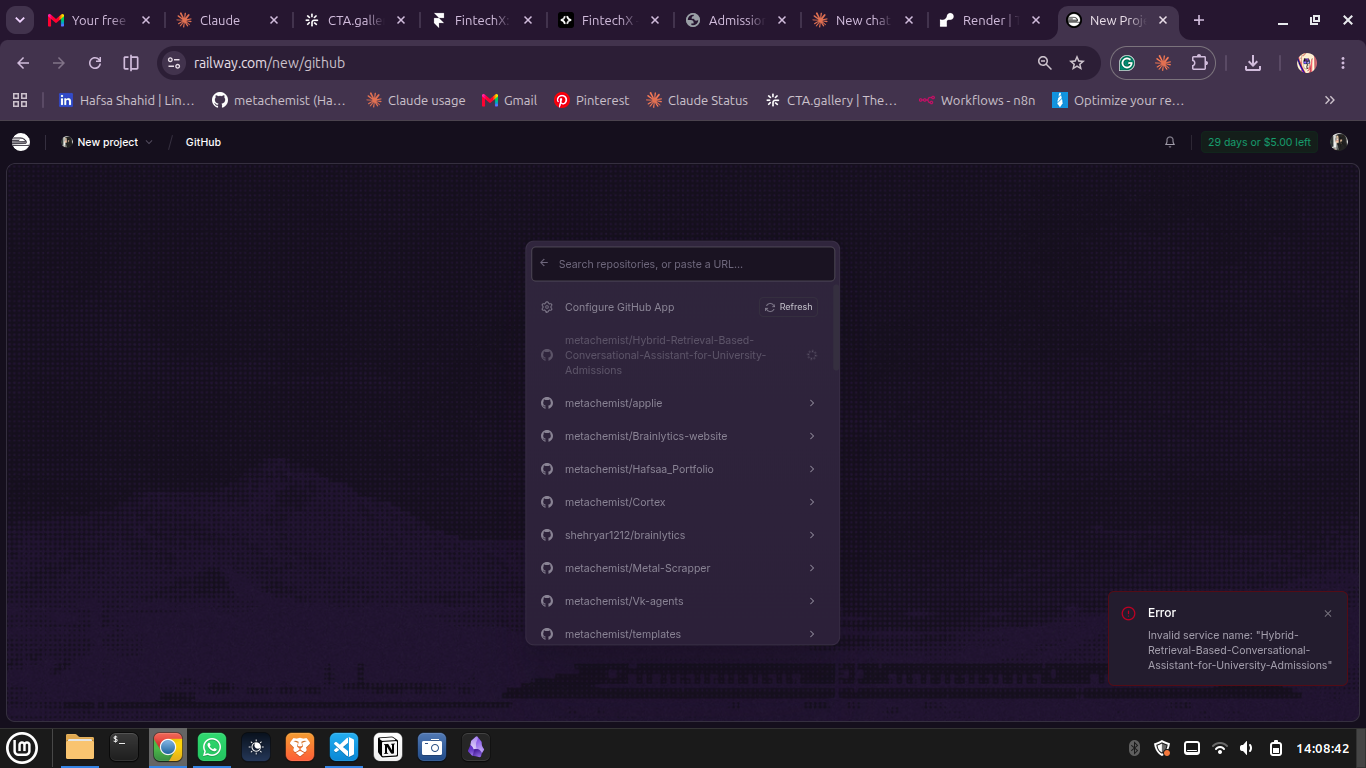
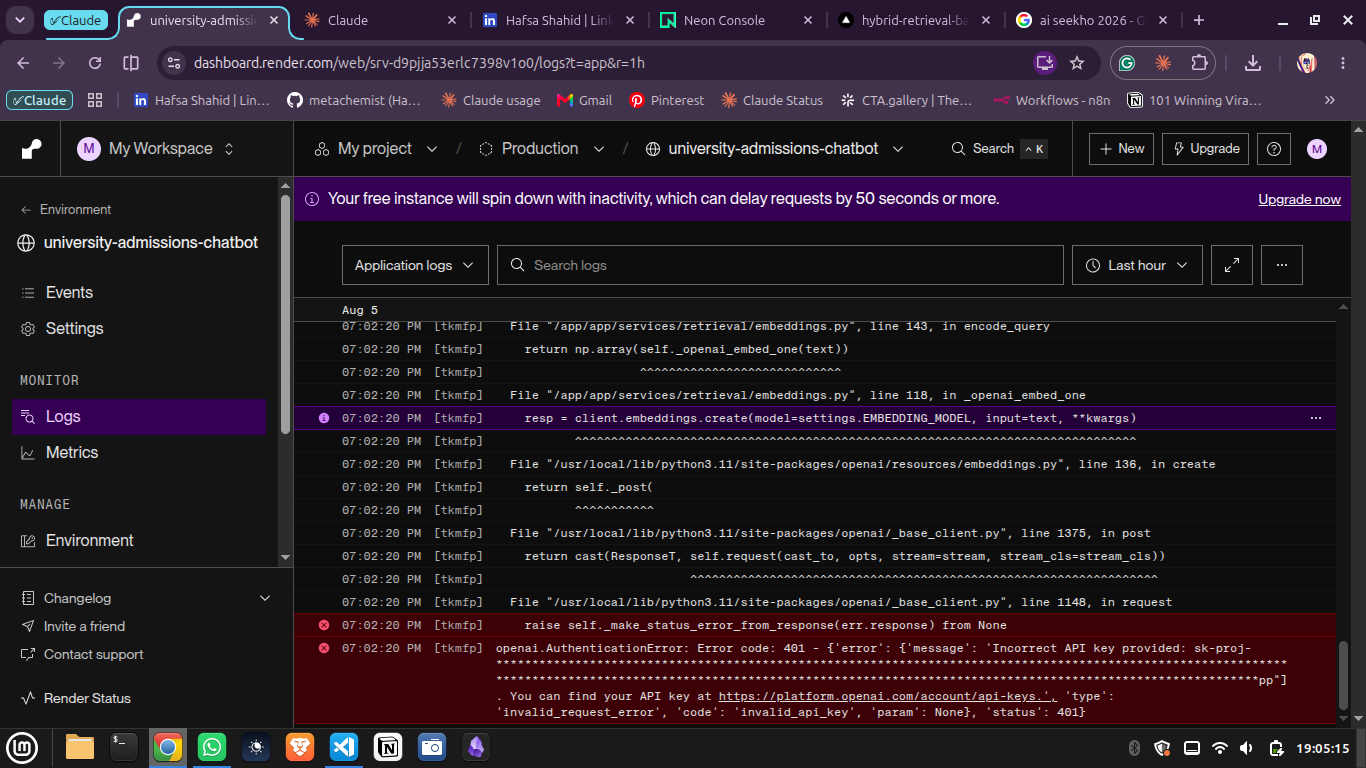
fix: update backend deployment details from Railway to Render in README and API client

diff --git a/frontend/src/lib/api.ts b/frontend/src/lib/api.ts
@@ -2,7 +2,7 @@
  * API Client for the Admission Chatbot Backend
  */
 
-// Backend runs on Railway. Set NEXT_PUBLIC_API_URL to the Railway backend URL
+// Backend runs on Render. Set NEXT_PUBLIC_API_URL to the Render backend URL
 // in the Vercel project settings. For local dev, set it in frontend/.env.local
 // (see .env.local.example).
 const API_URL = process.env.NEXT_PUBLIC_API_URL || 'http://localhost:8000'

diff --git a/README.md b/README.md
@@ -222,10 +222,12 @@ npm run lint
 | Service | Platform |
 |---------|----------|
 | Frontend | Vercel |
-| Backend | Railway |
+| Backend | Render |
 | Database | Neon |
 
-Set `API_URL` in the Vercel environment to point to your Railway backend.
+Backend is deployed on Render (Docker web service) at `https://university-admissions-chatbot.onrender.com` — Railway was tried first but hit deployment errors. Set `API_URL` in the Vercel environment to point to the Render backend.
+
+> Free-tier Render instances spin down after inactivity; the first request after idling can take 50+ seconds to respond.
 
 ## License
 
